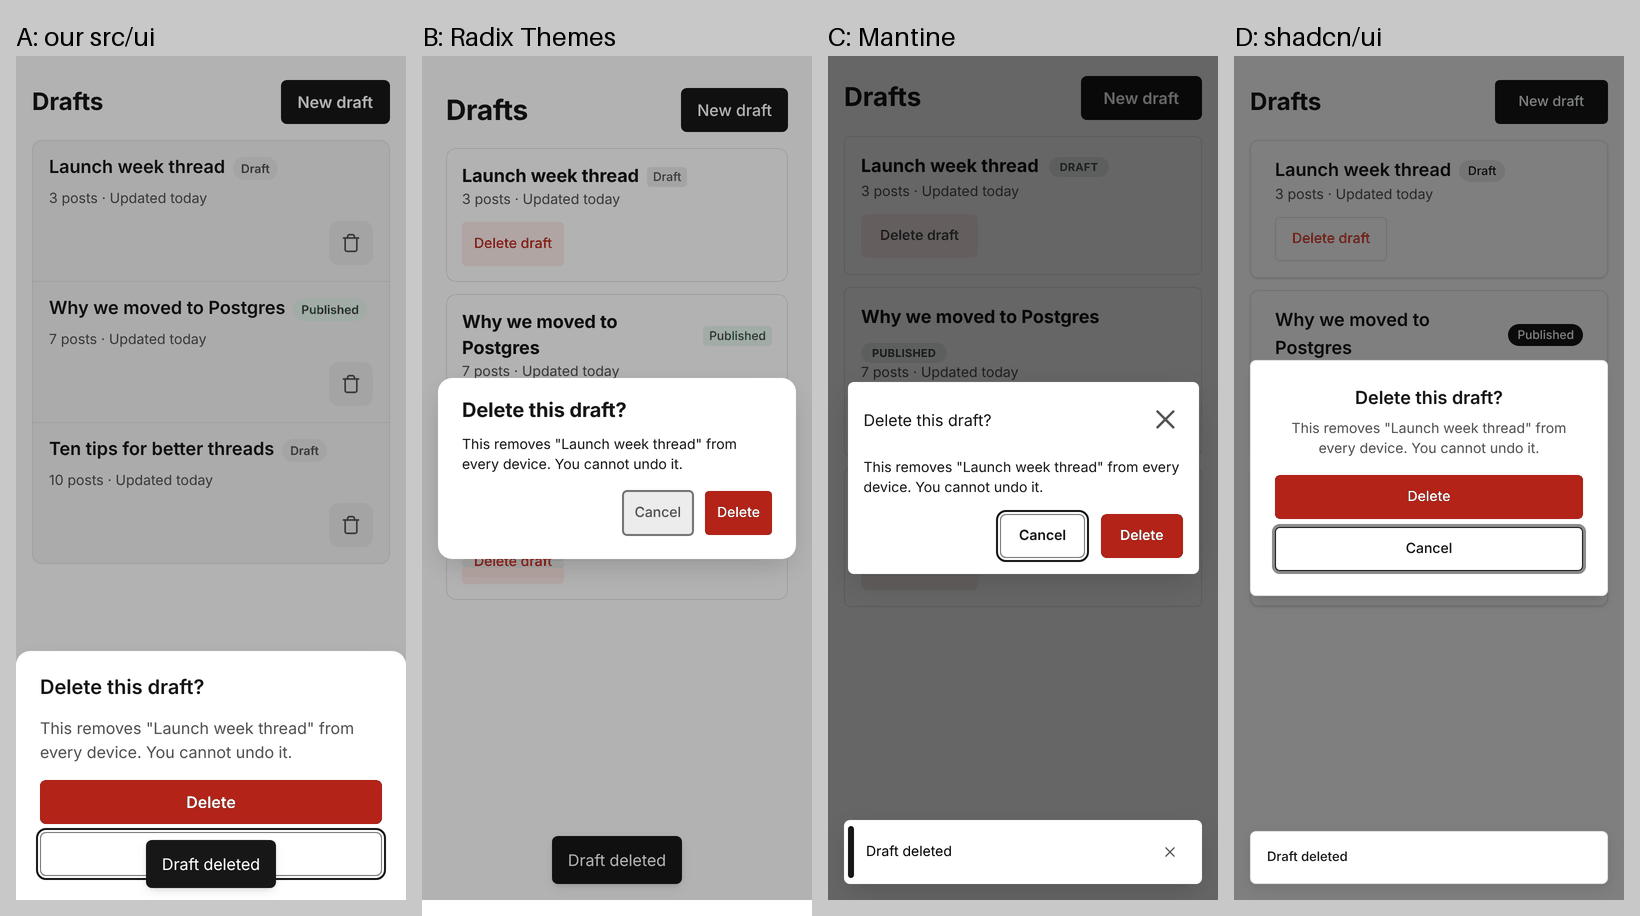
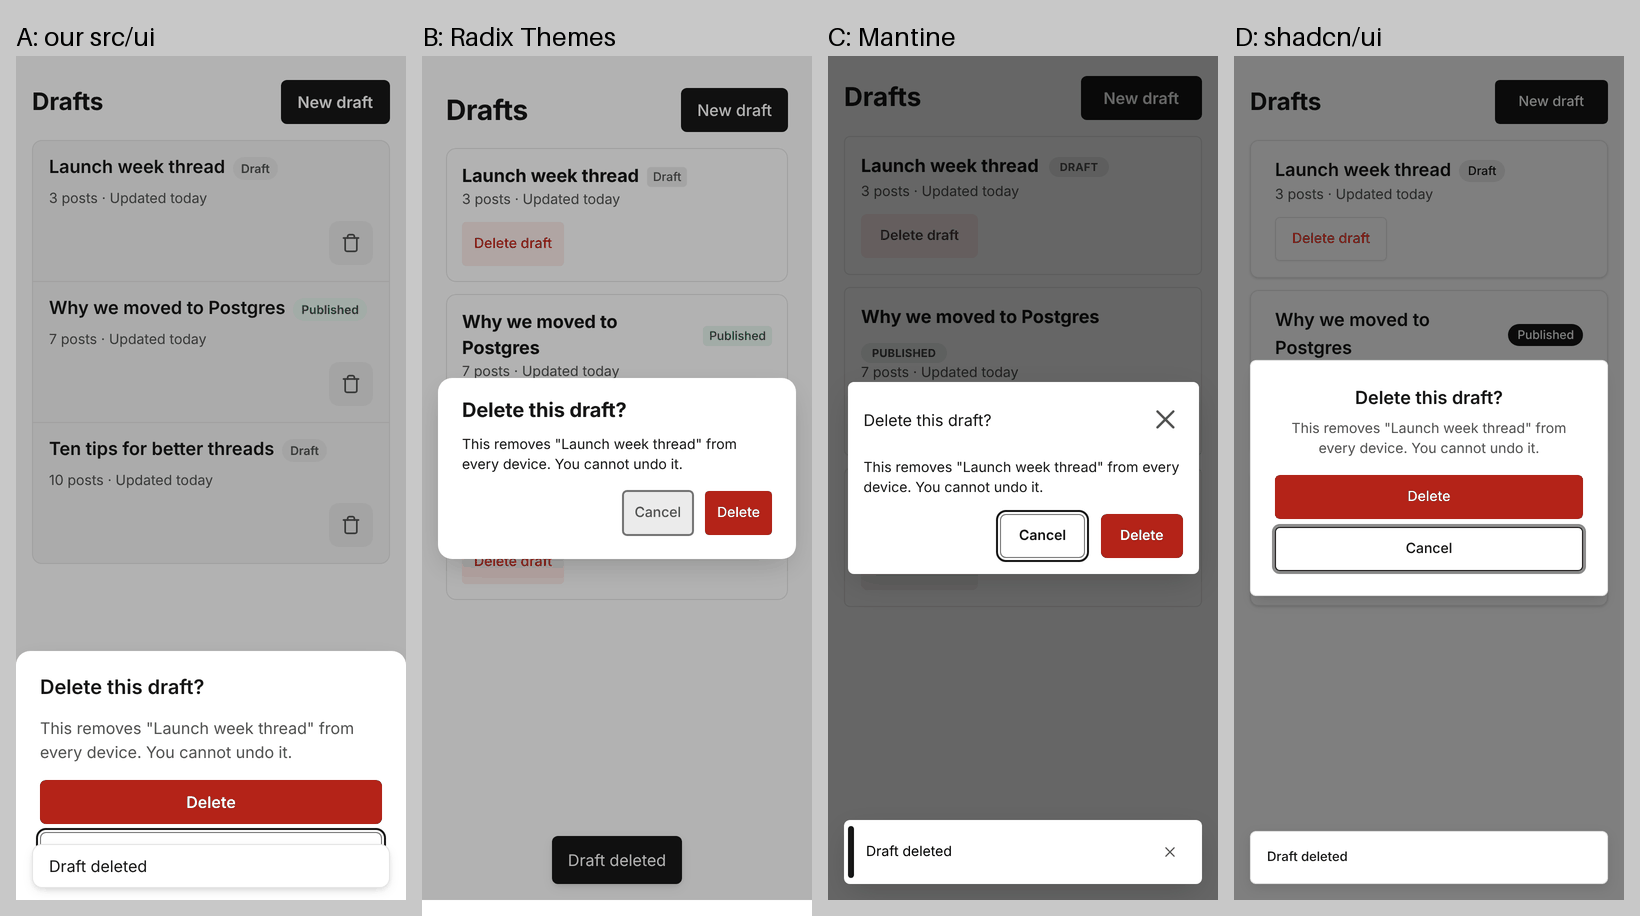
docs(ui): bake-off shows the Rare toast; motion size correction (#558)
Spike A fires its toast after the Rare toast loads, so the sheets show it.
The overlap fix names sonner's own z-index, and the doc corrects the 20.8 kB
size posted on #406: motion is 44.1 kB, not 5.2 kB.

Claude-Session: https://claude.ai/code/session_01UU4t2FQLKpcHBZfaaMYr2n

Changed region(s): [[0.0311, 0.917, 0.2488, 0.9782]]

diff --git a/docs/plans/ui-bakeoff.md b/docs/plans/ui-bakeoff.md
@@ -5,7 +5,8 @@ One criterion: how little must change in our tokens and components to get nice c
 This file records the measurements. The owner picks the direction on #558. Nothing on `main` changed for this.
 
 Measured by Opus on 2026-11-26. Spikes were built outside the repo (`/home/user/bakeoff/spike`, not committed).
-Spike A copies `src/ui` from `main` at `9c45a94`, which includes PR 513 (Rare UI toast).
+Spike A copies `src/ui` from `main` at `9c45a94`, which includes PR 513 (Rare UI toast). Its dialog screen fires the
+toast once the Rare toast has loaded, as in the app, where a toast follows a user action.
 
 ## Candidates
 - **A. Our own `src/ui`**, the Rare look by tokens (`data-skin="rare"`, PR 455), plus the Rare UI components already
@@ -51,7 +52,7 @@ plus one alias file that maps our tokens onto the kit's variables.
 | Hebrew right to left | yes (logical properties, token lint) | no RTL page in its docs; its CSS has no logical properties; segmented control stays left to right in Hebrew | documented (`DirectionProvider`); correct in the screenshots | the CLI converts classes at install (`rtl: true`); by hand here: 3 classes; correct in the screenshots |
 | Dark and light | yes, `light-dark()` tokens | yes through the alias | yes through the alias (127 dark-scheme selectors read `dark-*`) | yes through the alias plus the custom `dark` variant |
 | Reduced motion | yes (dialog 0 s) | yes (dialog animation none) | no by default (`respectReducedMotion: false`); 1 line fixes it | no (dialog still 0.2 s); 1 rule fixes it |
-| First load, drafts page (gzip) | 69.2 kB without the Rare components; 128.8 kB with them | 132.9 kB | 98.1 kB | 95.8 kB |
+| First load, drafts page (gzip) | 69.2 kB without the Rare components; 128.9 kB with them | 132.9 kB | 98.1 kB | 95.8 kB |
 | Added over React 18 | 24.2 kB, router included (11.6 kB over React and router); the Rare components add 59.7 kB more (`motion` 44.1 kB, toast 10.2 kB) | 87.9 kB (CSS 58.2 kB) | 53.1 kB (CSS 12.4 kB) | 50.8 kB (CSS 7.4 kB) |
 | Lazy loading | Rare parts lazy, but the toast is on every page and the delete button on the drafts list, so `motion` loads on every page | JS tree-shaken; all component CSS is one file | per-component CSS files and tree-shaken JS | Tailwind emits only used classes; JS per component |
 | axe (16 runs) | 0 violations | 0 violations | 0 after fixes; before: white text on the orange dark accent, 2 unnamed close buttons | 0 violations |
@@ -82,8 +83,12 @@ Each sheet shows A, B, C and D side by side for one variant. All 24 are in `docs
   `motion` 44.1 kB, the Rare toast (`sonner`) 10.2 kB, the delete button 2.4 kB and their Tailwind CSS 2.9 kB.
   The Rare toast, delete button and counter all import `motion`, and the toast sits on every page, so `motion` loads on
   every page. The #406 decision of 2026-11-26 sets 30 kB as the point to report and propose a fix.
-- In the dialog screen at 390 px, the toast covers the dialog's Cancel button: the toast layer (`--z-toast`, 600) is above
-  the dialog layer (`--z-dialog`, 500). In the app a toast usually follows a closed dialog; the overlap is still possible.
+- This corrects the size posted on [#406](https://github.com/Shaked/x-thread-draft-tool/issues/406) on 2026-11-26 at 18:03:
+  "about 20.8 kB ... motion 5.2", under the 30 kB limit. That count took `motion` as its 5.2 kB `animate` chunk only. The
+  `motion/react` chunk (38.9 kB, with `MotionConfig` and the projection code) loads too, so the total is 59.7 kB, over the limit.
+- In the dialog screen at 390 px, the Rare toast covers the dialog's Cancel button. Sonner's own stylesheet puts its
+  toaster at z-index 999999999, above the dialog layer (`--z-dialog`, 500); our own toast layer (`--z-toast`, 600) is above
+  it too. In the app a toast usually follows a closed dialog; the overlap is still possible.
 
 ### B. Radix Themes
 - Ten of our token names are redefined on `.radix-themes`. `--space-5`, `--space-6` and `--space-8` are 24, 32 and 48 px
@@ -136,7 +141,8 @@ already reaches every page. Cheapest path to the Rare look on every page by defa
 2. Keep the Rare components, but replace `motion` in the three that import it (delete button, counter, toast) with
    CSS animations, so `motion` (44.1 kB) leaves every page. The theme selector (1.7 kB) has no `motion`. The size after
    that change is not measured.
-3. Put the toast layer under the dialog layer, or hold a toast while a dialog is open.
+3. Put both toasts under the dialog layer (our `--z-toast` and an override of sonner's 999999999), or hold a toast while
+   a dialog is open.
 4. Use a headless primitive (E) only when we build a component we lack, such as a date picker.
 
 **Fallback, if the owner wants a full ready-made kit:** D, shadcn/ui, because it maps with the fewest variables and is
